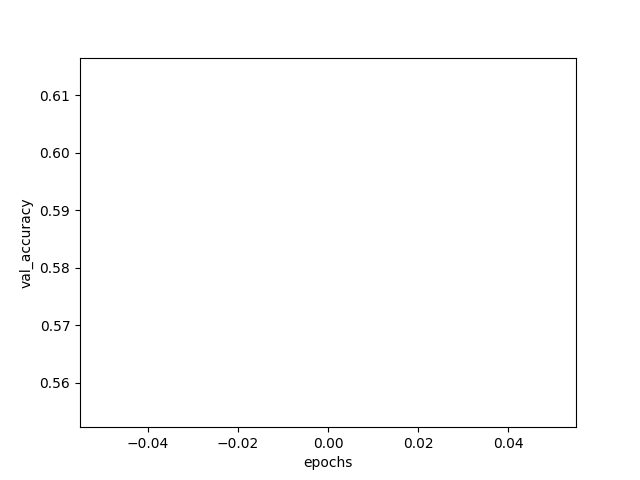
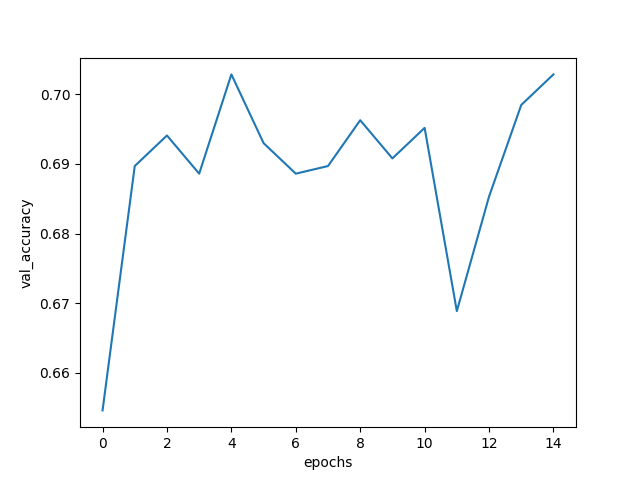
Implement VGG for gender model

diff --git a/Nick_tests/replicate/gender_model.py b/Nick_tests/replicate/gender_model.py
@@ -150,26 +150,41 @@ test_file_name="gender_fex_valset.csv"
 save_model_path="gender_model.pkl"
 train_dataset = GenderDataset(train_csv_path, train_file_name, dtype,"train")
 ## loader
-train_loader = DataLoader(train_dataset,batch_size=256,shuffle=True)
+train_loader = DataLoader(train_dataset,batch_size=64,shuffle=True)
 
 val_dataset = GenderDataset(train_csv_path, train_file_name, dtype,"val")
 ## loader
-val_loader = DataLoader(val_dataset,batch_size=256,shuffle=True)
+val_loader = DataLoader(val_dataset,batch_size=64,shuffle=True)
 
 test_dataset = GenderDataset(test_csv_path, test_file_name, dtype,"test")
 ## loader
-test_loader = DataLoader(test_dataset,batch_size=256,shuffle=True)
+test_loader = DataLoader(test_dataset,batch_size=64,shuffle=True)
 print("loaded data")
 
 temp_model=nn.Sequential(
-     nn.Conv2d(3, 16, kernel_size=3, stride=1),
-     nn.ReLU(inplace=True),
-     nn.BatchNorm2d(16),
-     nn.AdaptiveMaxPool2d(128),
-     nn.Conv2d(16, 32, kernel_size=3, stride=1),
-     nn.ReLU(inplace=True),
-     nn.BatchNorm2d(32),
-     nn.AdaptiveMaxPool2d(64),
+    nn.Conv2d(3, 16, kernel_size=3, stride=1),
+    nn.ReLU(inplace=True),
+    nn.BatchNorm2d(16),
+    nn.Conv2d(16, 16, kernel_size=3, stride=1),
+    nn.ReLU(inplace=True),
+    nn.BatchNorm2d(16),
+    nn.AdaptiveMaxPool2d(128),
+    ## 128x128
+    nn.Conv2d(16, 32, kernel_size=3, stride=1),
+    nn.ReLU(inplace=True),
+    nn.BatchNorm2d(32),
+    nn.Conv2d(32, 32, kernel_size=3, stride=1),
+    nn.ReLU(inplace=True),
+    nn.BatchNorm2d(32),
+    nn.AdaptiveMaxPool2d(64),
+    ## 64x64
+    nn.Conv2d(32, 64, kernel_size=3, stride=1),
+    nn.ReLU(inplace=True),
+    nn.BatchNorm2d(64),
+    nn.Conv2d(64, 64, kernel_size=3, stride=1),
+    nn.ReLU(inplace=True),
+    nn.BatchNorm2d(64),
+    nn.AdaptiveMaxPool2d(32),
     Flatten())
 
 temp_model = temp_model.type(dtype)
@@ -186,26 +201,41 @@ model = nn.Sequential(
     nn.Conv2d(3, 16, kernel_size=3, stride=1),
     nn.ReLU(inplace=True),
     nn.BatchNorm2d(16),
+    nn.Conv2d(16, 16, kernel_size=3, stride=1),
+    nn.ReLU(inplace=True),
+    nn.BatchNorm2d(16),
     nn.AdaptiveMaxPool2d(128),
+    ## 128x128
     nn.Conv2d(16, 32, kernel_size=3, stride=1),
     nn.ReLU(inplace=True),
     nn.BatchNorm2d(32),
+    nn.Conv2d(32, 32, kernel_size=3, stride=1),
+    nn.ReLU(inplace=True),
+    nn.BatchNorm2d(32),
     nn.AdaptiveMaxPool2d(64),
+    ## 64x64
+    nn.Conv2d(32, 64, kernel_size=3, stride=1),
+    nn.ReLU(inplace=True),
+    nn.BatchNorm2d(64),
+    nn.Conv2d(64, 64, kernel_size=3, stride=1),
+    nn.ReLU(inplace=True),
+    nn.BatchNorm2d(64),
+    nn.AdaptiveMaxPool2d(32),
     Flatten(),
-    nn.Linear(size[1], 512),
+    nn.Linear(size[1], 4096),
     nn.ReLU(inplace=True),
-    nn.Linear(512, 512),
+    nn.Linear(4096,1024),
     nn.ReLU(inplace=True),
-    nn.Linear(512, 2),
-    nn.Sigmoid())
+    nn.Linear(1024,2),
+    nn.Softmax())
 print("defined model")
 
 model.type(dtype)
 model.train()
 loss_fn = nn.CrossEntropyLoss().type(dtype)
-optimizer = optim.Adam(model.parameters(), lr=1e-5,weight_decay=5e-1)
+optimizer = optim.Adam(model.parameters(), lr=5e-5,weight_decay=0)
 print("start training")
-loss_history,acc_history,val_acc_history=train(train_loader,val_loader, model, loss_fn, optimizer, dtype,num_epochs=1, print_every=17)
+loss_history,acc_history,val_acc_history=train(train_loader,val_loader, model, loss_fn, optimizer, dtype,num_epochs=15, print_every=17)
 
 plt.plot(range(len(loss_history)),loss_history)
 plt.xlabel("iterations")
